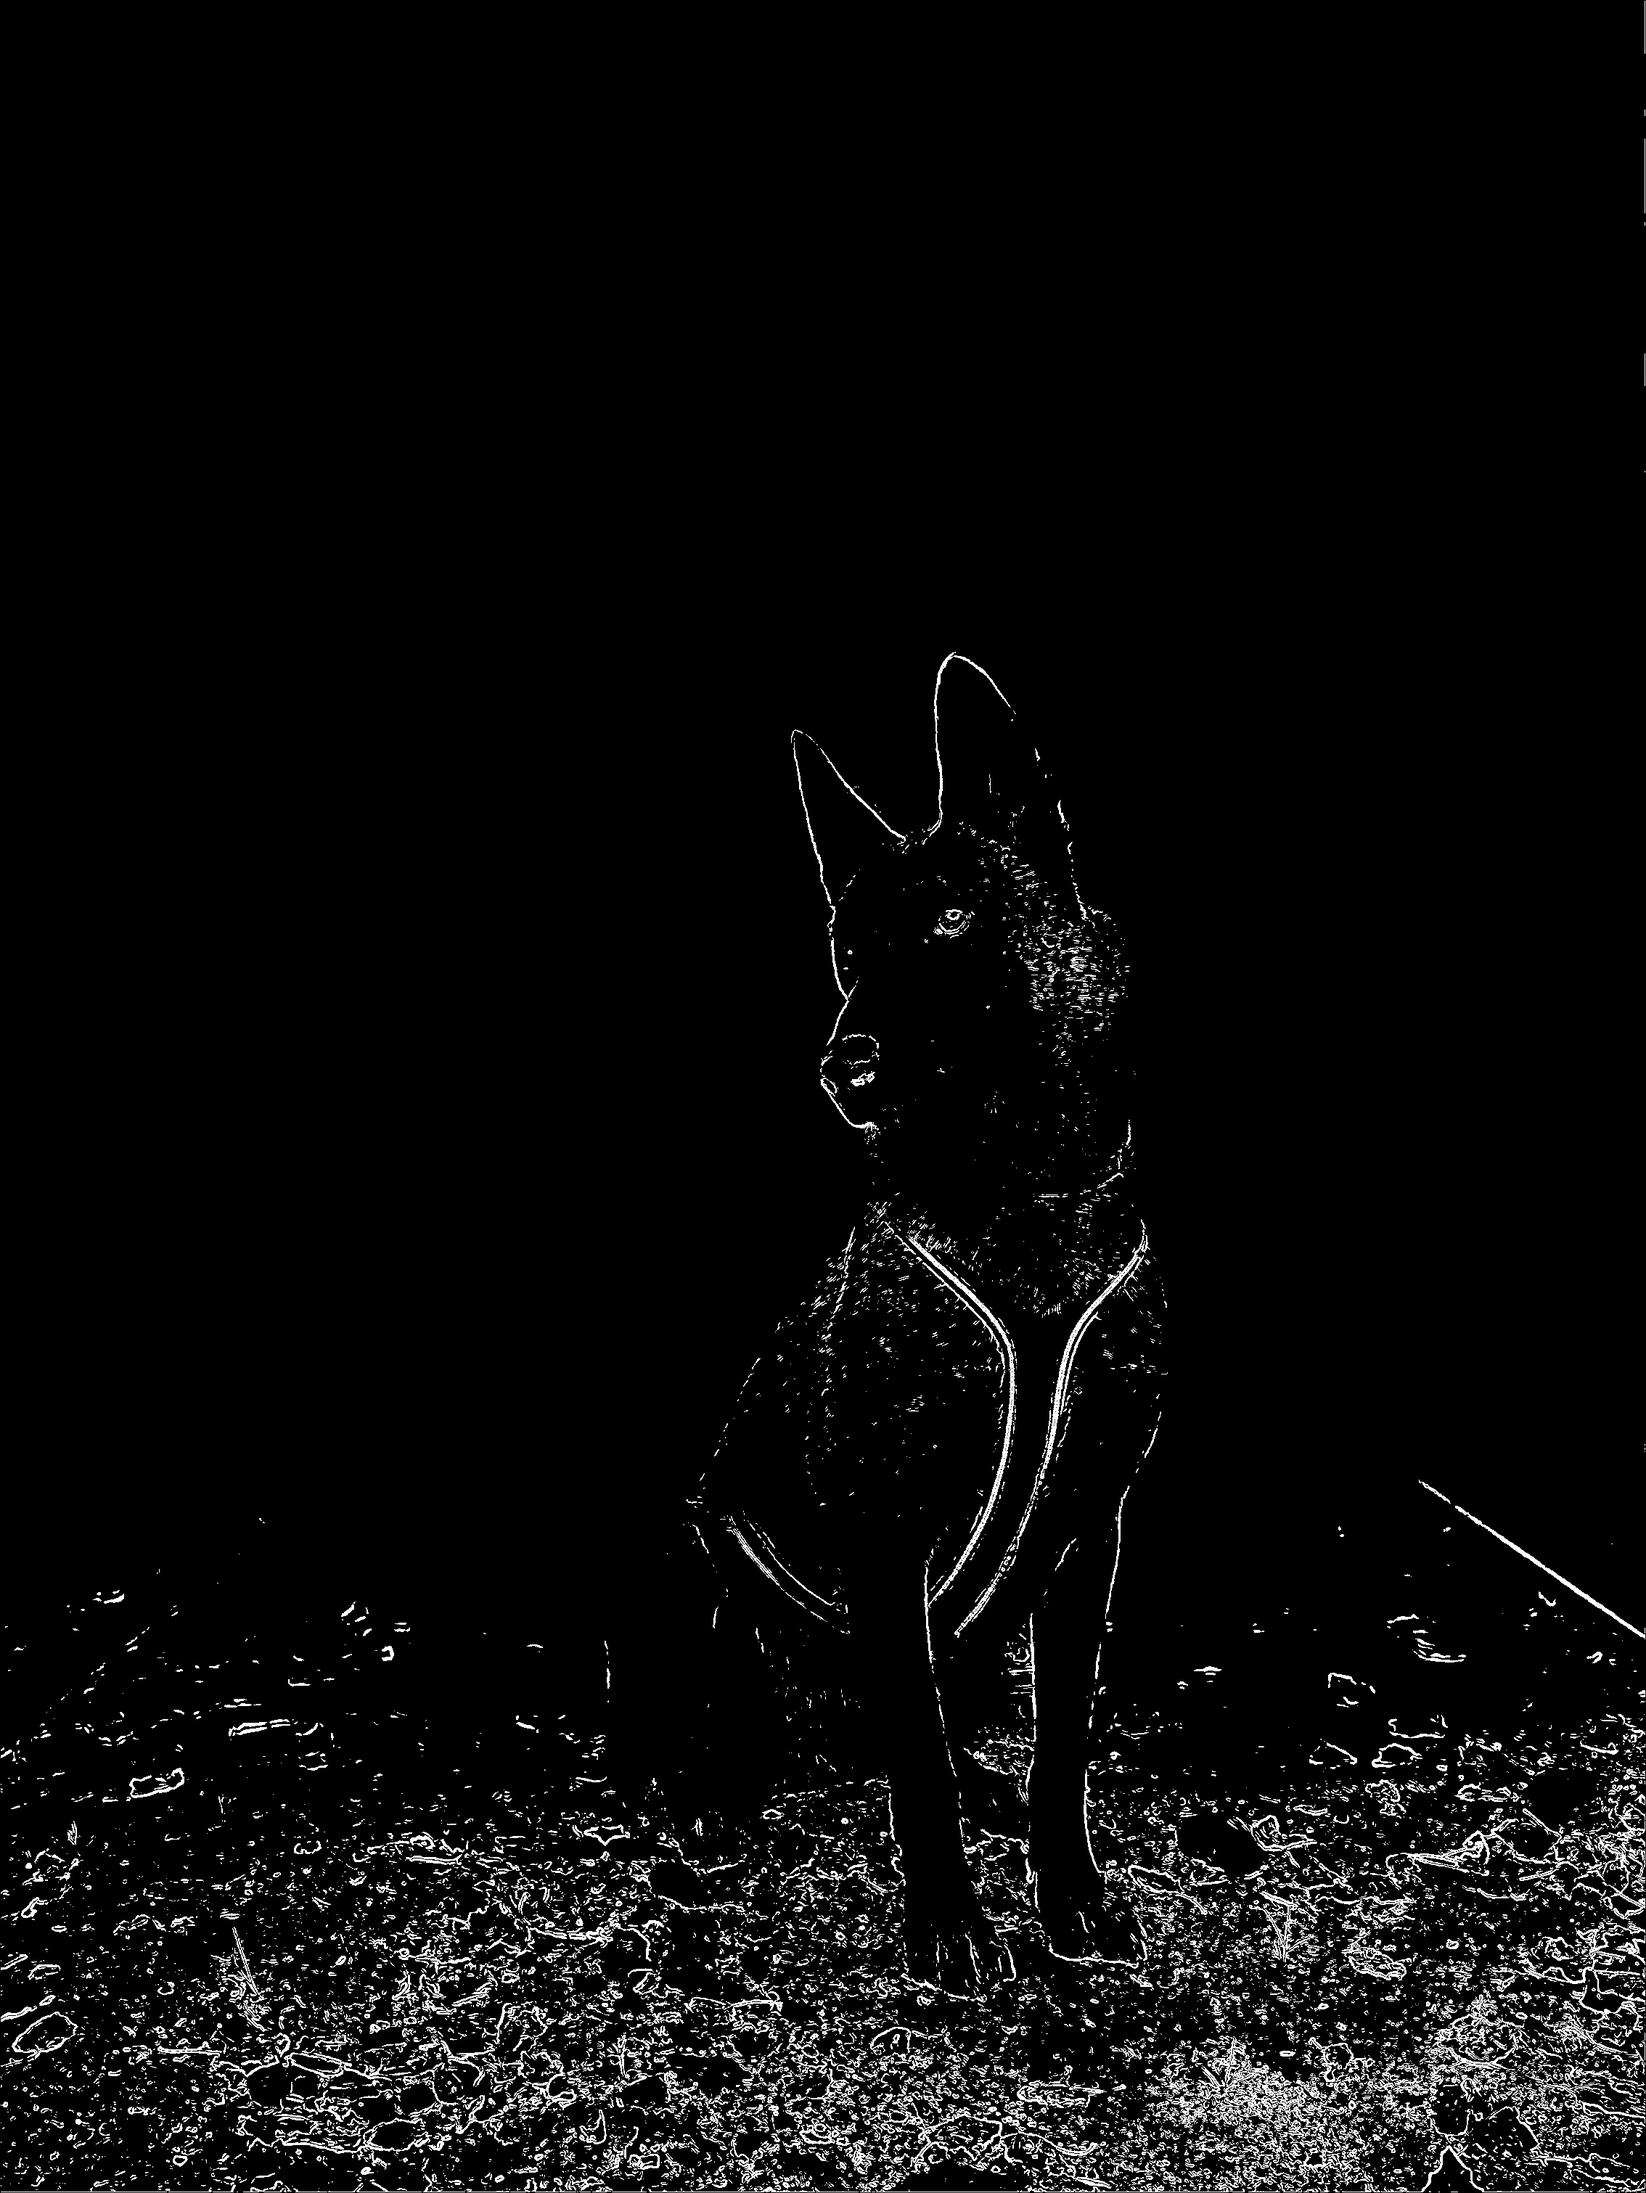
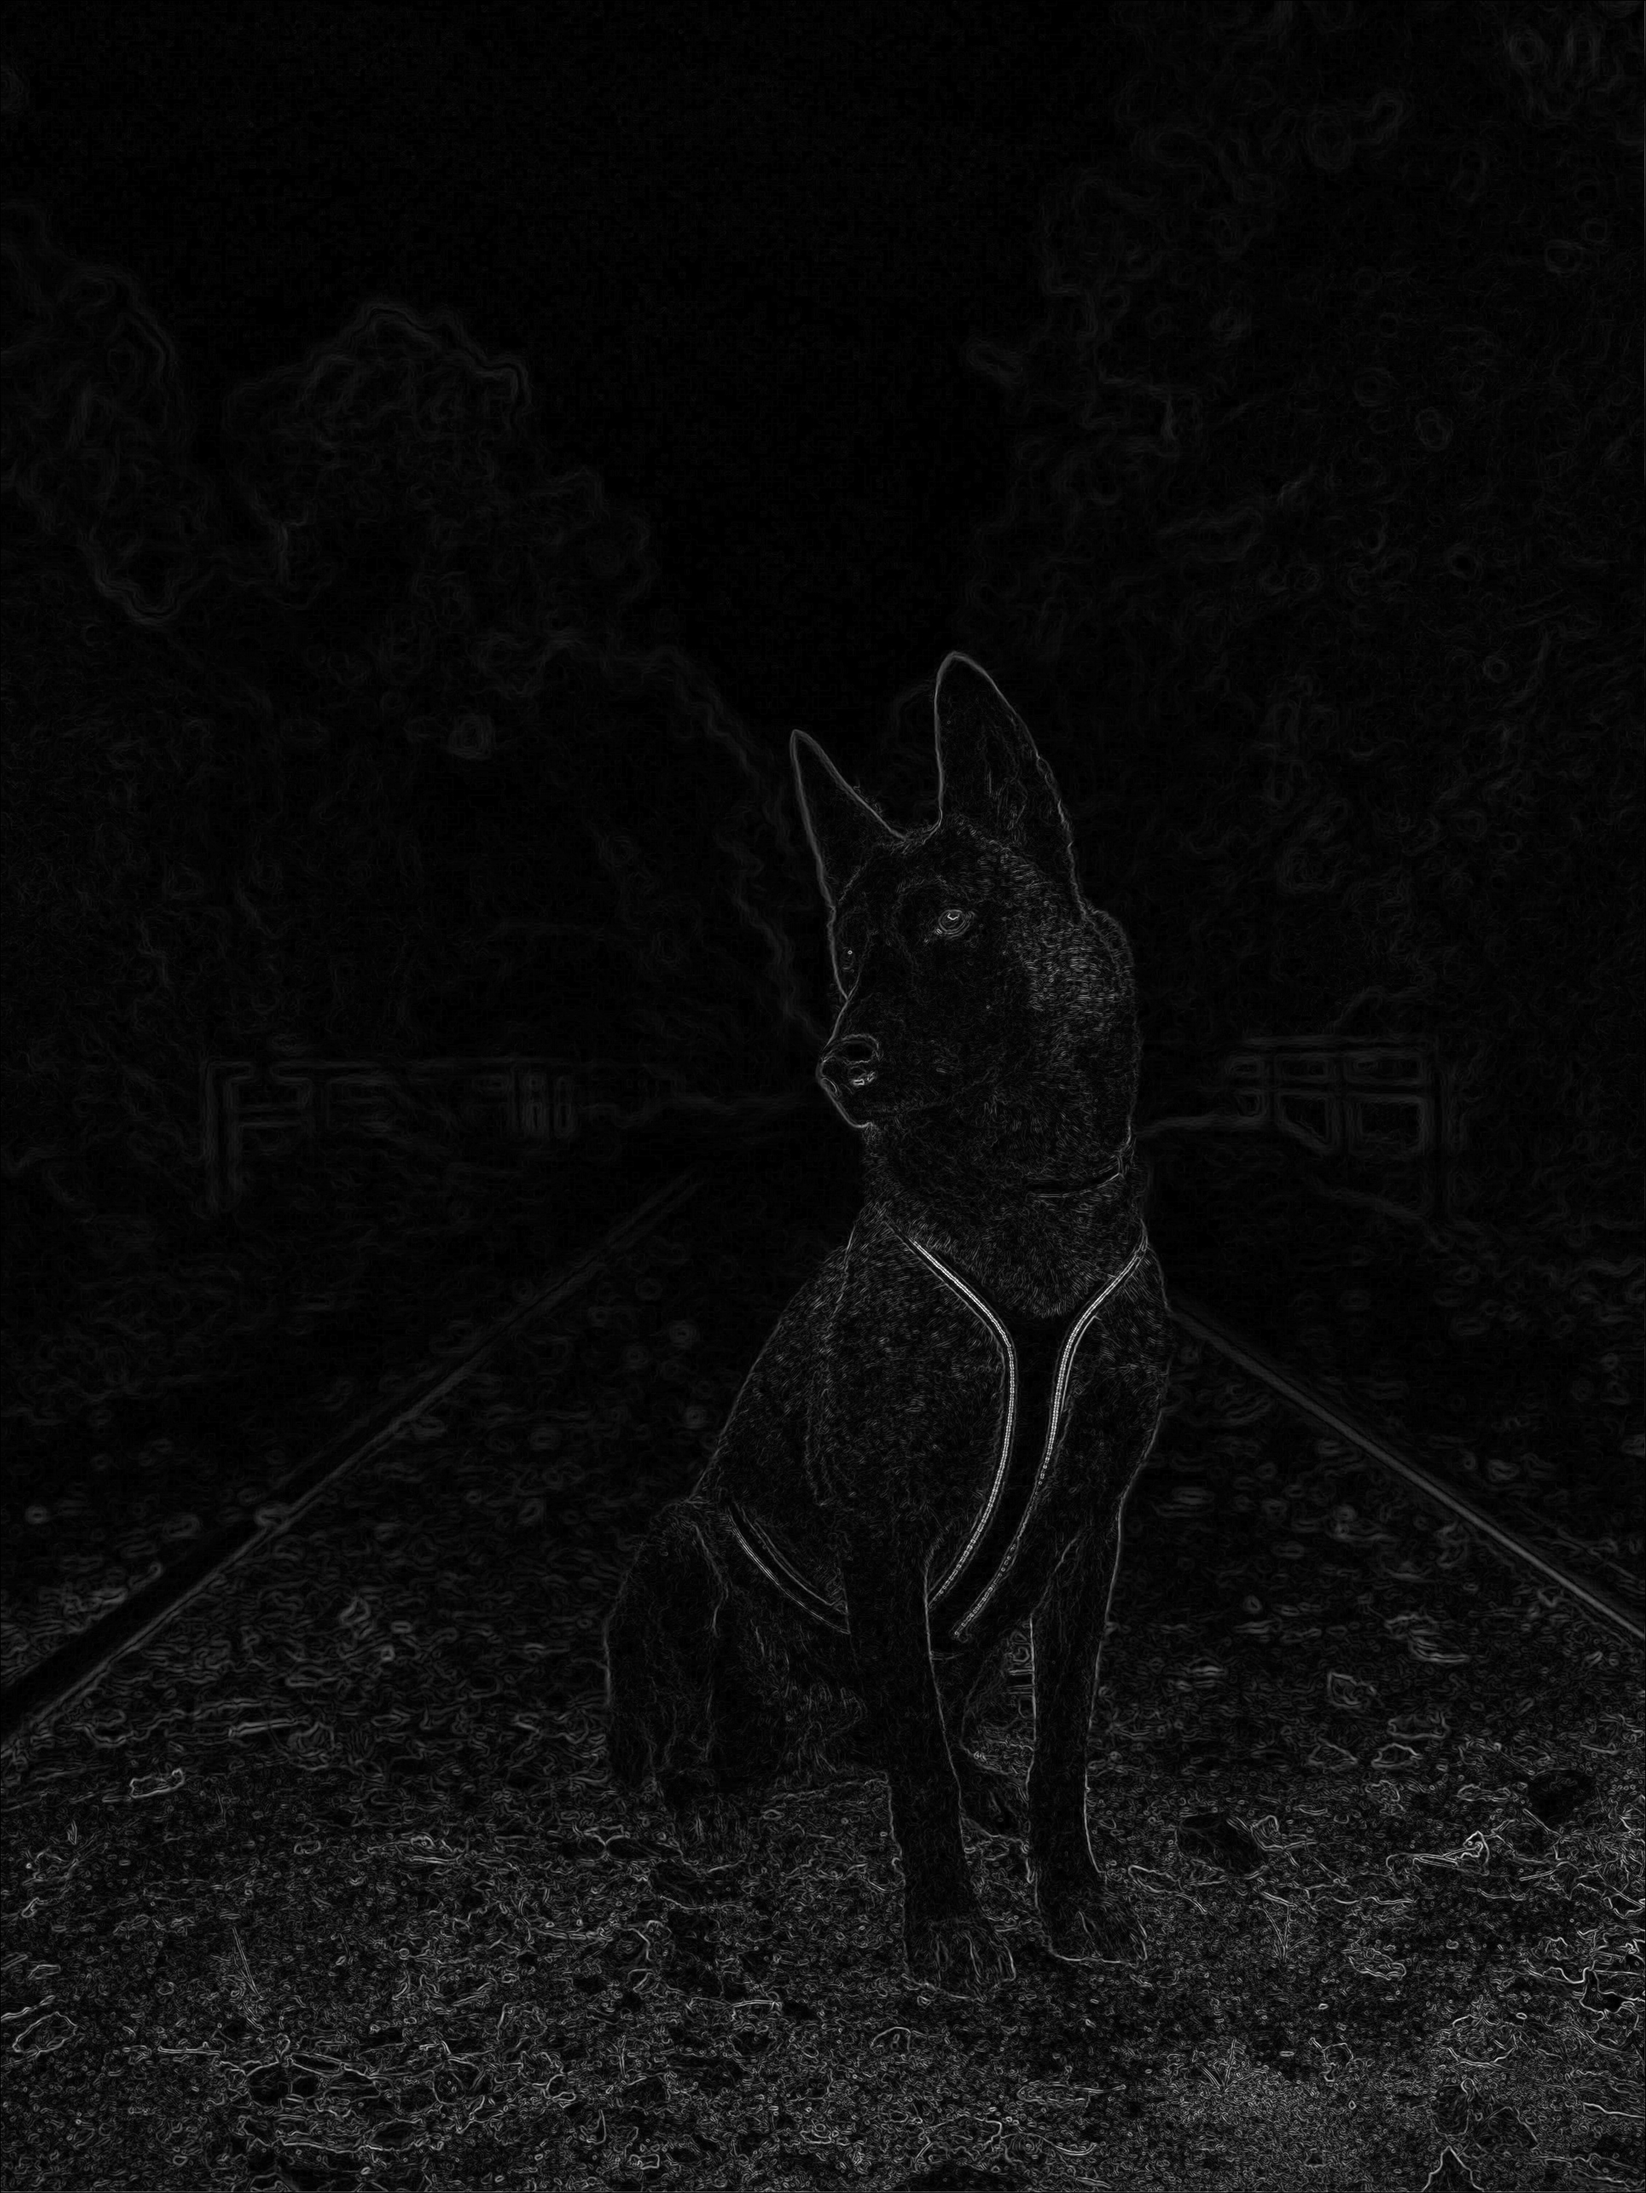
Added functionnal gradient function

diff --git a/projet.cpp b/projet.cpp
@@ -1,8 +1,8 @@
+#include <algorithm>
+#include <cmath>
 #include <iostream>
 #include <opencv2/opencv.hpp>
 #include <string>
-#include <algorithm>
-#include <cmath>
 
 using namespace cv;
 using namespace std;
@@ -13,9 +13,7 @@ using namespace std;
  * @param str Le nom du fichier
  * @return L'extension du fichier
  */
-string getFileExtension(string str) {
-  return str.substr(str.length() - 4);
-}
+string getFileExtension(string str) { return str.substr(str.length() - 4); }
 
 /**
  * Retourne le nom d'une image passé en paramètre
@@ -41,7 +39,8 @@ string getFileName(string str) {
  * Retourne le chemin complet d'une nouvelle image
  *
  * @param str Le nom du fichier
- * @param type Specification de l'image (ex --> Binarisation : saturneBinarisation)
+ * @param type Specification de l'image (ex --> Binarisation :
+ * saturneBinarisation)
  * @return Le chemin complet de la nouvelle image
  */
 string getFilePath(string str, string type) {
@@ -67,11 +66,7 @@ string getFilePath(string str, string type) {
  */
 Mat filtreGaussien(Mat image, char *nomImage) {
   // Matrice pour le filtre Gaussien
-  int tab[3][3] = {
-    {1, 2, 1},
-    {2, 4, 2},
-    {1, 2, 1}
-  };
+  int tab[3][3] = {{1, 2, 1}, {2, 4, 2}, {1, 2, 1}};
 
   for (int y = 1; y < image.rows; y++) {
     for (int x = 1; x < image.cols; x++) {
@@ -86,7 +81,7 @@ Mat filtreGaussien(Mat image, char *nomImage) {
       }
 
       // Filtre Gaussien
-      pixel = (uchar)(sum/16 > 255)?255:sum/16;
+      pixel = (uchar)(sum / 16 > 255) ? 255 : sum / 16;
     }
   }
 
@@ -95,7 +90,7 @@ Mat filtreGaussien(Mat image, char *nomImage) {
   string fichier_modifie = getFilePath(str, "FiltreGaussien");
 
   // Enregistrement de l'image
-  imwrite(fichier_modifie.c_str(), image); 
+  imwrite(fichier_modifie.c_str(), image);
 
   cout << "Filtre gaussien appliqué et enregistrée!" << endl;
 
@@ -110,63 +105,61 @@ Mat filtreGaussien(Mat image, char *nomImage) {
  * @return Un clone de l'image ayant subie un un gradient
  */
 Mat filtreGradient(Mat image, char *nomImage) {
-    // Vérifier si l'image est en niveaux de gris
-    if (image.channels() != 1) {
-        cvtColor(image, image, COLOR_BGR2GRAY);
+  // Vérifier si l'image est en niveaux de gris
+  if (image.channels() != 1) {
+    cvtColor(image, image, COLOR_BGR2GRAY);
+  }
+
+  // Matrices pour les gradients
+  Mat grad_x = Mat::zeros(image.size(), CV_32F);
+  Mat grad_y = Mat::zeros(image.size(), CV_32F);
+
+  // Masques de dérivation
+  int dx_mask[3] = {-1, 0, 1};
+  int dy_mask[3] = {-1, 0, 1};
+
+  // Calculer les gradients horizontaux et verticaux
+  for (int y = 1; y < image.rows - 1; y++) {
+    for (int x = 1; x < image.cols - 1; x++) {
+      // Calculer le gradient horizontal
+      float sum_x = 0;
+      for (int j = -1; j <= 1; j++) {
+        sum_x += dx_mask[j + 1] * image.at<uchar>(y, x + j);
+      }
+      grad_x.at<float>(y, x) = sum_x;
+
+      // Calculer le gradient vertical
+      float sum_y = 0;
+      for (int i = -1; i <= 1; i++) {
+        sum_y += dy_mask[i + 1] * image.at<uchar>(y + i, x);
+      }
+      grad_y.at<float>(y, x) = sum_y;
     }
+  }
 
-    // Matrices pour les gradients
-    Mat grad_x = Mat::zeros(image.size(), CV_32F);
-    Mat grad_y = Mat::zeros(image.size(), CV_32F);
-
-    // Masques de dérivation
-    int dx_mask[3] = {-1, 0, 1};
-    int dy_mask[3] = {-1, 0, 1};
-
-    // Calculer les gradients horizontaux et verticaux
-    for (int y = 1; y < image.rows - 1; y++) {
-        for (int x = 1; x < image.cols - 1; x++) {
-            // Calculer le gradient horizontal
-            float sum_x = 0;
-            for (int j = -1; j <= 1; j++) {
-                sum_x += dx_mask[j + 1] * image.at<uchar>(y, x + j);
-            }
-            grad_x.at<float>(y, x) = sum_x;
-
-            // Calculer le gradient vertical
-            float sum_y = 0;
-            for (int i = -1; i <= 1; i++) {
-                sum_y += dy_mask[i + 1] * image.at<uchar>(y + i, x);
-            }
-            grad_y.at<float>(y, x) = sum_y;
-        }
+  // Combiner les gradients pour obtenir l'intensité des bords
+  Mat edges = Mat::zeros(image.size(), CV_32F);
+  for (int y = 0; y < image.rows; y++) {
+    for (int x = 0; x < image.cols; x++) {
+      edges.at<float>(y, x) =
+          sqrt(grad_x.at<float>(y, x) * grad_x.at<float>(y, x) +
+               grad_y.at<float>(y, x) * grad_y.at<float>(y, x));
     }
+  }
 
-    // Combiner les gradients pour obtenir l'intensité des bords
-    Mat edges = Mat::zeros(image.size(), CV_32F);
-    for (int y = 0; y < image.rows; y++) {
-        for (int x = 0; x < image.cols; x++) {
-            edges.at<float>(y, x) = sqrt(grad_x.at<float>(y, x) * grad_x.at<float>(y, x) + grad_y.at<float>(y, x) * grad_y.at<float>(y, x));
-        }
-    }
+  // Normaliser les bords
+  normalize(edges, edges, 0, 255, NORM_MINMAX);
+  edges.convertTo(edges, CV_8U);
 
-    // Normaliser les bords
-    normalize(edges, edges, 0, 255, NORM_MINMAX);
-    edges.convertTo(edges, CV_8U);
+  string str(nomImage);
+  string fichier_modifie = getFilePath(str, "Gradient");
 
-    // Appliquer un seuil pour mettre en évidence les bords
-    Mat gradient;
-    threshold(edges, gradient, 50, 255, THRESH_BINARY);
+  // Enregistrement de l'image
+  imwrite(fichier_modifie.c_str(), edges);
 
-    string str(nomImage);
-    string fichier_modifie = getFilePath(str, "Gradient");
+  cout << "Bords mis en évidence et enregistrés!" << endl;
 
-    // Enregistrement de l'image
-    imwrite(fichier_modifie.c_str(), gradient);
-
-    cout << "Bords mis en évidence et enregistrés!" << endl;
-
-    return gradient.clone();
+  return edges.clone();
 }
 
 /**
@@ -176,58 +169,58 @@ Mat filtreGradient(Mat image, char *nomImage) {
  * @return Un clone de l'energy map
  */
 Mat energyMap(Mat image, char *nomImage) {
-    int windowSize = 3;
-    int halfSize = windowSize / 2;
-    Mat gray, gradient, energyMap, energyMapColor;
+  int windowSize = 3;
+  int halfSize = windowSize / 2;
+  Mat gray, gradient, energyMap, energyMapColor;
 
-    // Conversion en niveaux de gris si nécessaire
-    if (image.channels() > 1) {
-        cvtColor(image, gray, COLOR_BGR2GRAY);
-    } else {
-        gray = image.clone();
-    }
+  // Conversion en niveaux de gris si nécessaire
+  if (image.channels() > 1) {
+    cvtColor(image, gray, COLOR_BGR2GRAY);
+  } else {
+    gray = image.clone();
+  }
 
-    gray = filtreGaussien(gray.clone(), nomImage);
+  gray = filtreGaussien(gray.clone(), nomImage);
 
-    // Application du filtre Laplacien
-    gradient = filtreGradient(gray.clone(), nomImage);  
+  // Application du filtre Laplacien
+  gradient = filtreGradient(gray.clone(), nomImage);
 
-    energyMap = gradient.clone();
+  energyMap = gradient.clone();
 
-    for (int i = 1; i < energyMap.rows - 1; i++) {
-      for (int j = 1; j < energyMap.cols - 1; j++) {
+  for (int i = 1; i < energyMap.rows - 1; i++) {
+    for (int j = 1; j < energyMap.cols - 1; j++) {
 
-        uchar& pixel = energyMap.at<uchar>(i, j);
-        int min = 255;
+      uchar &pixel = energyMap.at<uchar>(i, j);
+      int min = 255;
 
-        // Appliquer le kernel
-        for (int m = -halfSize; m <= halfSize; m++) {
-          int x = j + m;
-          int y = i - 1;
+      // Appliquer le kernel
+      for (int m = -halfSize; m <= halfSize; m++) {
+        int x = j + m;
+        int y = i - 1;
 
-          char pixel_value = energyMap.at<uchar>(y, x);
+        char pixel_value = energyMap.at<uchar>(y, x);
 
-          min = pixel_value < min ? pixel_value : min;
-        }
-
-        // Stocker la valeur
-        pixel += min;
-        min = 255;
+        min = pixel_value < min ? pixel_value : min;
       }
+
+      // Stocker la valeur
+      pixel += min;
+      min = 255;
     }
+  }
 
-    convertScaleAbs(energyMap, energyMap);
+  convertScaleAbs(energyMap, energyMap);
 
-    // Application d'une colormap pour rendre la energy map en couleur
-    applyColorMap(energyMap, energyMapColor, COLORMAP_JET);
+  // Application d'une colormap pour rendre la energy map en couleur
+  applyColorMap(energyMap, energyMapColor, COLORMAP_JET);
 
-    // Enregistrement de l'image
-    string fichier_modifie = getFilePath(string(nomImage), "EnergyMap");
-    imwrite(fichier_modifie.c_str(), energyMapColor);
+  // Enregistrement de l'image
+  string fichier_modifie = getFilePath(string(nomImage), "EnergyMap");
+  imwrite(fichier_modifie.c_str(), energyMapColor);
 
-    cout << "Energy map générée et enregistrée!" << endl;
+  cout << "Energy map générée et enregistrée!" << endl;
 
-    return energyMapColor.clone();
+  return energyMapColor.clone();
 }
 
 int main(int argc, char **argv) {
@@ -245,15 +238,6 @@ int main(int argc, char **argv) {
     cerr << "Erreur de lecture de l'image!" << endl;
     return -1;
   }
-
-  // Filtre de Sobel
-  //Mat imageFiltreSobel = sobel(image.clone(), argv[1]);
-
-  // Gradient
-  //Mat gradient = filtreGradient(image.clone(), argv[1]);
-
-  // Filtre de Laplacien
-  // Mat imageFiltreLaplacien = laplacien(image.clone(), argv[1]);
 
   // Energy map
   Mat imageEnergyMap = energyMap(image.clone(), argv[1]);
